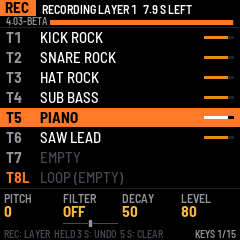
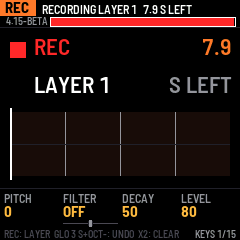
STACK 4.15-beta: the big font is FONT_M (room for the code); the manual
APP_BIG_FONT is FONT_M (fm1-base's own setting: FONT_L's 20 KB not built in), as
the owner allowed: the splash's name, the panel's screens, the title's name and
the REC panel's REC and seconds are 23 px instead of 31. 4.14 was 3412 B over
the app slot; this gives the seam fix, the REC panel and the new taking-off the
room they need.

Manual: the looper's table and text for 4.15 (REC only records; GLO held 3 s
then OCT- removes the last layer, OCT- twice clears the loop; the REC panel; no
seam), and PERFORM's undo note. Its looper and start-screen pictures anew.

Checked: all 21 tests pass; the code review found nothing; the web emulator
records a loop and a layer, GLO held 3 s shows OCT-: UNDO TWICE: CLEAR, OCT-
takes layer 2 off and OCT- again clears, with no errors.

Claude-Session: https://claude.ai/code/session_018euNXgamWdKgVRVWjA1Teu

diff --git a/stack/app/app.c b/stack/app/app.c
@@ -3290,7 +3290,7 @@ static void cover_band(int32_t y0)
 
 static void draw_title(void)                 /* in the tracks' place; the keys, the knobs and the header work meanwhile */
 {
-    const felucca_font_t *big = text_w(&FONT_L, APP_NAME) <= 122 ? &FONT_L : &FONT_M;
+    const felucca_font_t *big = &FONT_M;         /* (4.15: FONT_L is not built in: its 20 KB went to the code) */
     cv_begin(240, 80, C_BLACK);
     cover_band(0);
     cv_text(116 + (124 - text_w(big, APP_NAME)) / 2, 40, big, APP_NAME, C_ORANGE);
@@ -3330,7 +3330,7 @@ static void draw_rec(void)
     rec_x = x;
     cv_begin(240, 80, C_BLACK);                  /* REC, the layer, the seconds left */
     cv_rect(10, 14, 16, 16, (plat_ms() >> 8 & 1u) ? RGB(255, 40, 40) : RGB(120, 20, 20));
-    cv_text(34, 6, &FONT_L, "REC", RGB(255, 40, 40));
+    cv_text(34, 8, &FONT_M, "REC", RGB(255, 40, 40));
     t[0] = 0;
     text_cat(t, "LAYER ");
     int_text(lp.layers + 1, c);
@@ -3343,7 +3343,7 @@ static void draw_rec(void)
         c[1] = (char)('0' + ds % 10u);
         c[2] = 0;
         text_cat(t, c);
-        cv_text(232 - text_w(&FONT_L, t), 6, &FONT_L, t, C_ORANGE);
+        cv_text(232 - text_w(&FONT_M, t), 8, &FONT_M, t, C_ORANGE);
         cv_text(232 - text_w(&FONT_M, "S LEFT"), 46, &FONT_M, "S LEFT", C_GRAY);
     }
     cv_blit(0, 28);

diff --git a/stack/app/app.h b/stack/app/app.h
@@ -7,6 +7,7 @@
 #include "plat.h"
 
 #define APP_NAME "STACK"
+#define APP_BIG_FONT FONT_M              /* the splash's name, the panel's screens: FONT_L's 20 KB given to the code (4.15) */
 #include "stack_version.h"               /* STACK_VERSION: stack/VERSION, by tools/gen_version.py at every build */
 #ifndef APP_VERSION                      /* (a release build passes the same, from the same file: --release) */
 #define APP_VERSION STACK_VERSION

diff --git a/stack/app/docs/MANUAL.md b/stack/app/docs/MANUAL.md
@@ -228,21 +228,24 @@ Nothing waits for a bar, and you do not have to press PLAY first.
    after one round of the loop, or when you press REC again. The bar on the screen shows how much of the round is
    left.
 
-| REC | What it does |
+| Button | What it does |
 |---|---|
-| Short press (less than half a second) | Records a layer, from the press. While it records: ends it. |
-| Hold 3 seconds, then let go | Removes the last layer. Only one layer can be removed. |
-| Hold 5 seconds | Clears the whole loop. It happens at 5 seconds; you do not have to let go. |
-| Hold less than 3 seconds, then let go | Nothing. |
+| REC | Records a layer, from the press. While it records: ends it. REC is only for recording: holding it does nothing more. |
+| GLO held 3 seconds, then OCT− | Removes the last layer (or cancels the layer that is recording). Only one layer can be removed. |
+| GLO held 3 seconds, then OCT− twice | Clears the whole loop. |
 
-While you hold REC, a bar fills at the top of the screen. A mark shows the 3 seconds, and the text says what will
-happen. Before 3 seconds: `HOLD 3 S: UNDO LAYER  5 S: CLEAR LOOP`, or `HOLD 3 S: NO UNDO` when there is no layer
-that can be removed. After 3 seconds: `LET GO: UNDO LAYER  HOLD ON: CLEAR`, or `LET GO: NO UNDO`. While a layer
-records, letting go cancels it: `HOLD 3 S: CANCEL TAKE  5 S: CLEAR LOOP`, then `LET GO: CANCEL TAKE`. If you keep
-holding the press that started a first layer, it records on, and its recording-time bar stays until 3 seconds.
-Held to 5 seconds while a first layer records (no loop yet), only that layer goes, so the text there is only
-`HOLD 3 S: CANCEL TAKE`, then `LET GO: CANCEL TAKE`; at 5 seconds the screen says `TAKE CANCELLED`. With no loop at all the text says `NO LOOP: NOTHING TO UNDO OR CLEAR`.
+While a layer records on the TRACKS page, the track list gives way to a big recording panel: `REC` and the layer
+number, the seconds left, and a graph of what you record as it comes in, with a line at each bar. When you press
+REC to end a first layer, an orange line shows where it will stop. At the top of the screen a thick red bar shows
+the time left.
 
+To remove: hold GLO. After 3 seconds the screen says `OCT-: UNDO  TWICE: CLEAR`. Press OCT− once to remove the
+last layer; press it again (still holding GLO) to clear the whole loop. The music plays on while you do it. That
+OCT− does not change the octave. If you let go of GLO before 3 seconds, OCT− changes the octave as usual. Holding
+GLO also opens the GLO page; press GLO again to go back.
+
+- **No seam.** What still sounds when a layer ends (the tails of your notes) is laid on the loop where it comes
+  round, so the sound runs on through the loop's start without a dip or a click.
 - **The loop need not start on the first beat.** It starts where you pressed REC. Because its length is whole
   bars, it comes round at the same place of the bar every time.
 - **The length of the loop** is set by the first layer. The shortest loop is 1 bar. Later layers have the same
@@ -272,11 +275,6 @@ Held to 5 seconds while a first layer records (no loop yet), only that layer goe
   bottom line too, so the top of the screen keeps showing the recording.
 - The loop has its own LEVEL: K4 on T8L or T7L sets it, and it stays the same when the loop moves. A new loop starts
   at 80, as loud as you played it. The FILTER, EQ, FX and LFO of the track that holds the loop work on the loop.
-- The press that **starts** a layer on top must be a short one: let go of REC within half a second. If you hold
-  that press longer, it is a hold (undo or clear, see the table), the layer is dropped and the loop stays as it
-  was. So holding REC to remove a layer never records anything.
-- The press that **ends** a layer keeps that layer at once, however long you hold it. If you hold it for 3
-  seconds, the layer you just made is removed again.
 - Starting a new layer means the layer before it can no longer be removed.
 - If you stop the sequencer while a layer records, that layer is dropped.
 - When the FM-1 follows a clock (`CLOCK: BURGER` or `CLOCK: BT`), the clock starts the sequencer. REC while it is
@@ -321,9 +319,9 @@ effect on everything you hear, on all tracks at once. Hold the key: the effect i
 **PERFORM and the looper.** Keys 1 to 5 borrow memory from the looper.
 
 - While the looper records a layer, keys 1 to 6 and key 15 wait. They are dim on the screen.
-- If you use keys 1 to 5, the looper can no longer remove its last layer (REC held 3 seconds). The screen tells you once:
-  `PERFORM USED THE UNDO LAYER`. The loop itself is safe. Hold REC for an undo after that and the screen says
-  `NO UNDO: PERFORM USED IT` (while you hold: `LET GO: NO UNDO`). The next layer can be removed again.
+- If you use keys 1 to 5, the looper can no longer remove its last layer (GLO held 3 seconds, then OCT−). The
+  screen tells you once: `PERFORM USED THE UNDO LAYER`. The loop itself is safe. Try an undo after that and the
+  screen says `NO UNDO: PERFORM USED IT`. The next layer can be removed again.
 
 **LATCH.** On the GLO page, K4 sets PERFORM LATCH to ON or OFF. It starts OFF.
 
